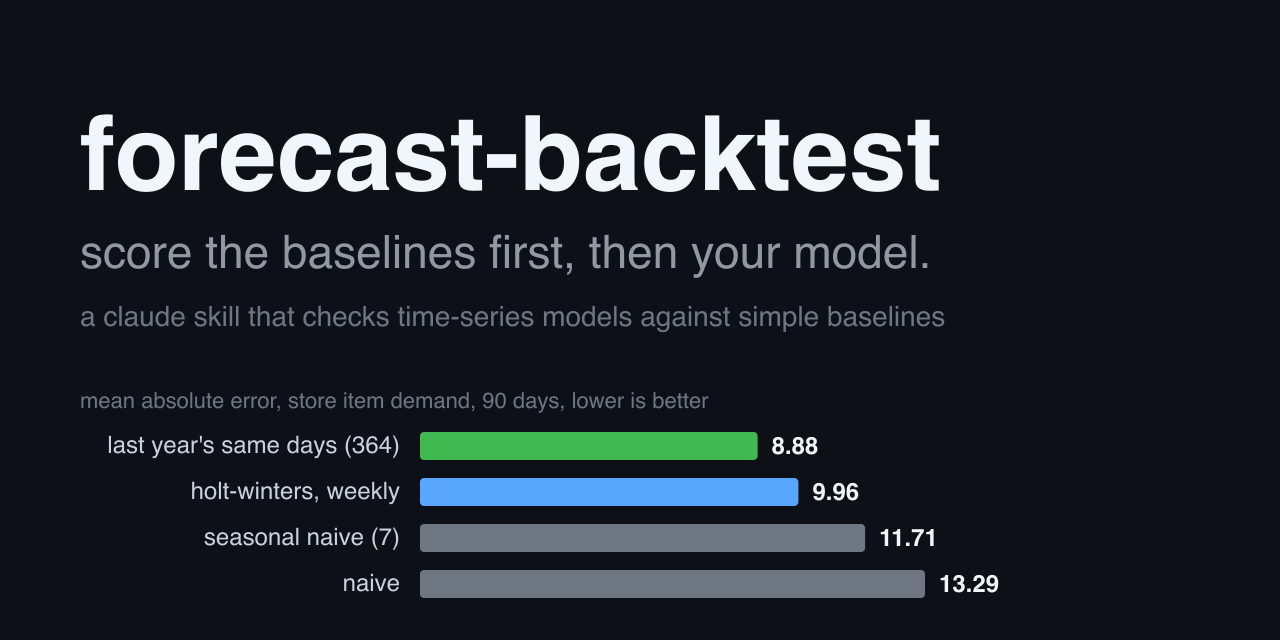
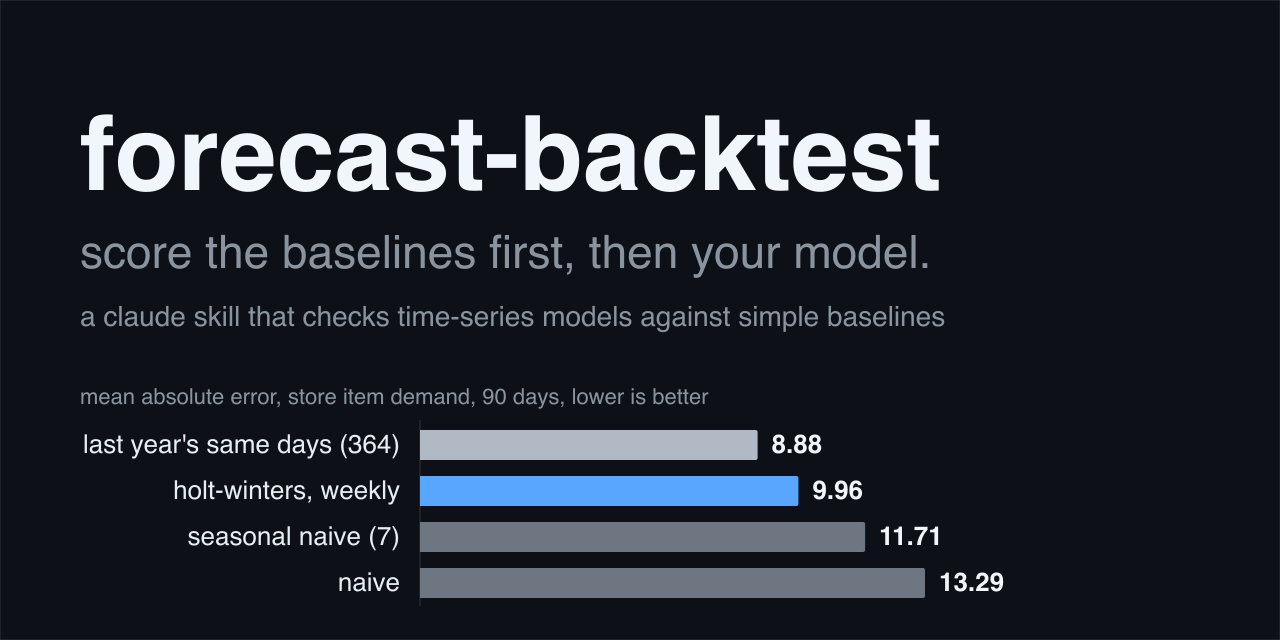
Polish the README images and badges
One accent colour per image, the rest neutral. The chart bars are 24px, rounded only at the data end, with a zero line and tabular figures. Colours sit in one style block per image with a dark scheme override, and the diagram names its blocks directly instead of through a legend. The social card gets the same palette and higher text contrast. The five badges share one style and one colour.

The images are generated from the Store Item numbers: last year's same days 8.88, holt-winters 9.96, seasonal naive 11.71, naive 13.29.

diff --git a/README.md b/README.md
@@ -1,10 +1,10 @@
 # forecast-backtest
 
-[![tests](https://github.com/collisionattack/forecast-backtest/actions/workflows/test.yml/badge.svg)](https://github.com/collisionattack/forecast-backtest/actions/workflows/test.yml)
-[![license: mit](https://img.shields.io/badge/license-mit-blue.svg)](LICENSE)
-![python 3.10 | 3.11 | 3.12 | 3.13](https://img.shields.io/badge/python-3.10%20%7C%203.11%20%7C%203.12%20%7C%203.13-blue)
-![pandas 2.0+](https://img.shields.io/badge/pandas-2.0%2B-blue)
-![claude code skill](https://img.shields.io/badge/claude%20code-skill-8a5cf5)
+[![tests](https://img.shields.io/github/actions/workflow/status/collisionattack/forecast-backtest/test.yml?branch=main&style=flat-square&label=tests)](https://github.com/collisionattack/forecast-backtest/actions/workflows/test.yml)
+[![license: mit](https://img.shields.io/badge/license-mit-0969da?style=flat-square)](LICENSE)
+![python 3.10 | 3.11 | 3.12 | 3.13](https://img.shields.io/badge/python-3.10%20%7C%203.11%20%7C%203.12%20%7C%203.13-0969da?style=flat-square)
+![pandas 2.0+](https://img.shields.io/badge/pandas-2.0%2B-0969da?style=flat-square)
+![claude code skill](https://img.shields.io/badge/claude%20code-skill-0969da?style=flat-square)
 
 a claude skill that makes time-series forecasts prove themselves. claude scores simple baselines first, so a model only counts once it beats them on a rolling-origin backtest.
 
